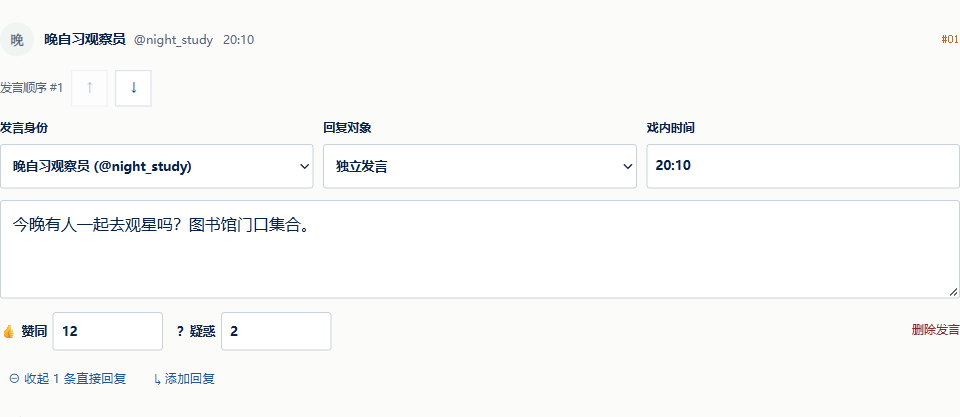
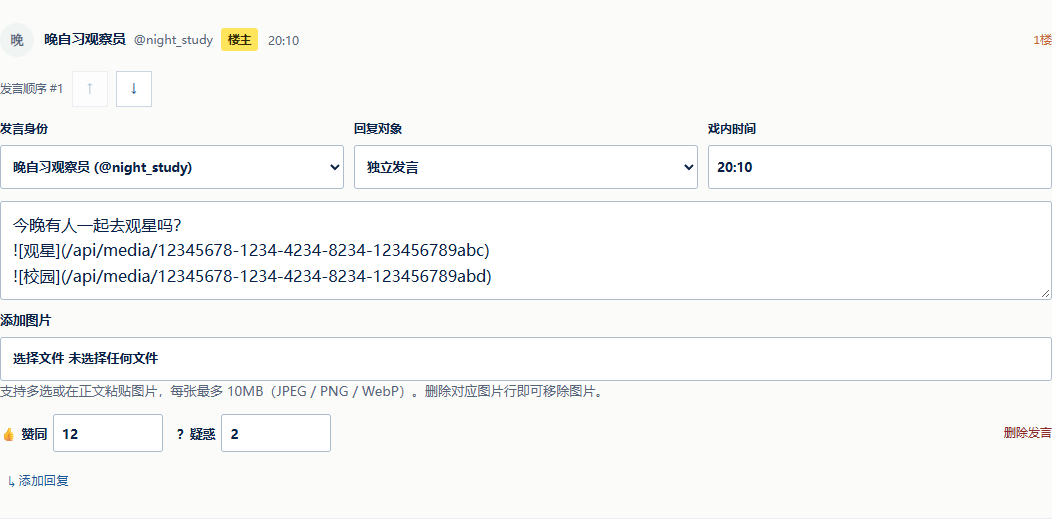
Add forum image replies, direct quotes and topic owner badges

diff --git a/src/features/guide/import-guide.tsx b/src/features/guide/import-guide.tsx
@@ -1,5 +1,5 @@
 import { ScreenshotGuide } from "./screenshot-guide";
-const templates = {"forum": "---\nformat: ktu-forum-v1\ntitle: 图书馆闭馆后的灯\nboard: campus\ntags: 校园日常, 图书馆\n---\n## 楼层 1\n账号: night_reader\n昵称: 夜读者\n回复: 0\n时间: 20:10\n赞同: 12\n疑惑: 2\n---\n有人知道三楼为什么还亮着灯吗？\n\n## 楼层 2\n账号: library_helper\n昵称: 图书馆小助手\n回复: 1\n时间: 20:12\n赞同: 8\n疑惑: 0\n---\n今晚有志愿者整理旧书。\n", "article": "---\nformat: ktu-article-v1\ntitle: 闭馆之后\nsummary: 一次图书馆志愿活动的记录。\ntags: 校园生活, 随笔\n---\n## 夜里的书架\n\n闭馆铃响过之后，我们留下来整理旧书。\n\n> 每一本旧书，都留着曾经的阅读痕迹。\n\n窗外的灯渐渐熄灭，书架上的编号终于连成了完整的一排。\n", "event": "---\nformat: ktu-event-v1\ntitle: 秋季旧书整理行动\nsummary: 图书馆志愿者共同完成旧书编目。\ntime_range: 某学年秋季学期\nstarts_on: 2026-09-20\nends_on: 2026-09-21\n---\n## 事件背景\n\n旧书需要重新整理与编目。\n\n## 后续影响\n\n新增了便于查阅的书目索引。\n\n## 时间线\n\n### 时间节点 1\n时间: 9月20日晚\n标题: 志愿者集合\n---\n大家在图书馆门口领取分组任务。\n\n### 时间节点 2\n时间: 9月21日下午\n标题: 完成编目\n---\n最后一批书目完成核对。\n"};
+const templates = {"forum": "---\nformat: ktu-forum-v1\ntitle: 图书馆闭馆后的灯\nboard: campus\ntags: 校园日常, 图书馆\n---\n## 楼层 1\n账号: night_reader\n昵称: 夜读者\n回复: 0\n时间: 20:10\n赞同: 12\n疑惑: 2\n---\n有人知道三楼为什么还亮着灯吗？\n\n## 楼层 2\n账号: library_helper\n昵称: 图书馆小助手\n回复: 1\n时间: 20:12\n赞同: 8\n疑惑: 0\n---\n今晚有志愿者整理旧书。\n\n照片可在导入后，通过这一楼的“添加图片”上传，或直接在正文粘贴图片。\n", "article": "---\nformat: ktu-article-v1\ntitle: 闭馆之后\nsummary: 一次图书馆志愿活动的记录。\ntags: 校园生活, 随笔\n---\n## 夜里的书架\n\n闭馆铃响过之后，我们留下来整理旧书。\n\n> 每一本旧书，都留着曾经的阅读痕迹。\n\n窗外的灯渐渐熄灭，书架上的编号终于连成了完整的一排。\n", "event": "---\nformat: ktu-event-v1\ntitle: 秋季旧书整理行动\nsummary: 图书馆志愿者共同完成旧书编目。\ntime_range: 某学年秋季学期\nstarts_on: 2026-09-20\nends_on: 2026-09-21\n---\n## 事件背景\n\n旧书需要重新整理与编目。\n\n## 后续影响\n\n新增了便于查阅的书目索引。\n\n## 时间线\n\n### 时间节点 1\n时间: 9月20日晚\n标题: 志愿者集合\n---\n大家在图书馆门口领取分组任务。\n\n### 时间节点 2\n时间: 9月21日下午\n标题: 完成编目\n---\n最后一批书目完成核对。\n"};
 
 export function ImportGuide() {
   return <section id="import" className="guide-section"><p className="guide-kicker">把本地作品带进校园</p><h2>用 Markdown 一键填入内容</h2>
@@ -7,11 +7,11 @@ export function ImportGuide() {
     <ScreenshotGuide name="markdown-import" />
     <p className="guide-note">导入会替换标题、正文及模板内的字段，保留已选关联档案。格式错误不替换编辑器。论坛会立即创建缺少的独立身份，作品内容仍需另行保存；其他作者占用的账号须换一个标识。同一账号的已有昵称不会被修改。已发布事件不支持整体导入，请逐项编辑以保留节点引用。</p>
     <h3>通用规则</h3><p>文件使用 UTF-8 编码，最多 512 KiB。开头和元数据结尾各有一行 ---。字段使用英文冒号，每项一行，值直接填写，不加 YAML 引号或方括号；空值保留字段行。字段不能缺少、重复或增加。标签用逗号分隔。不要把整个文件包在代码围栏中。</p>
-    <h3>交给 AI 的提示词</h3><pre className="guide-import-code">{`请将下面的原稿转换为附带的 KTU Markdown 模板格式。只输出完整 Markdown 文件内容，不要加解释、代码围栏或 YAML 引号。严格保留模板字段名与分节标题；空值保留字段行。不要编造情节或改变角色关系。按下方格式说明检查字数、标签、楼层回复和日期。不支持的排版转成纯文本；图片和档案链接单独列在文件外提醒我手工添加。若缺少必要信息，先问我。
+    <h3>交给 AI 的提示词</h3><pre className="guide-import-code">{`请将下面的原稿转换为附带的 KTU Markdown 模板格式。只输出完整 Markdown 文件内容，不要加解释、代码围栏或 YAML 引号。严格保留模板字段名与分节标题；空值保留字段行。不要编造情节或改变角色关系。按下方格式说明检查字数、标签、楼层回复和日期。不支持的排版转成纯文本；论坛已上传图片保留为独立行 ![说明](/api/media/图片UUID)，不编造图片 UUID；本地图片、其他媒介图片和档案链接单独列在文件外提醒我手工添加。若缺少必要信息，先问我。
 
 【粘贴对应模板与格式说明】
 【粘贴原稿】`}</pre>
-    <h3>论坛格式</h3><p>board 只能为 campus（校园日常）、academic（课程与学术）、clubs（社团活动）、stories（校园传闻）。标题最多 160 字，标签最多 8 个、每个 64 字。楼层从 1 连续编号，最多 100 层。账号为 2–32 位英文字母、数字或下划线，昵称最多 60 字；同一账号的昵称须一致。回复 0 表示独立发言，其他数字必须指向此前楼层。时间最多 100 字，正文每层最多 10,000 字。赞同、疑惑为 0–999999999 的整数，表示作者设定的剧情数值。楼层正文为普通文本；“## 楼层 数字”是保留标题。</p>
+    <h3>论坛格式</h3><p>board 只能为 campus（校园日常）、academic（课程与学术）、clubs（社团活动）、stories（校园传闻）。标题最多 160 字，标签最多 8 个、每个 64 字。楼层从 1 连续编号，最多 100 层。账号为 2–32 位英文字母、数字或下划线，昵称最多 60 字；同一账号的昵称须一致。回复 0 表示独立发言，其他数字必须指向此前楼层。时间最多 100 字，正文每层最多 10,000 字。赞同、疑惑为 0–999999999 的整数，表示作者设定的剧情数值。楼层正文支持普通文本和多图。图片须独占一行，格式为 ![说明](/api/media/图片UUID)，使用自己已上传且可用的图片；不支持外部网址或本地文件路径。本地图片请导入后在对应楼层选择文件上传或粘贴。引用仅展示直接回复楼层，首楼账号的所有发言显示“楼主”；“## 楼层 数字”是保留标题。</p>
     <h3>校刊 / 部刊格式</h3><p>标题最多 160 字，摘要最多 500 字。标签最多 3 个，可用：校园怪谈、个人见闻、校园生活、人物故事、历史、悬疑、科幻、旅行、随笔。正文以空行分块，最多 150 块、每块 20,000 字；仅支持普通段落、单行 # 至 ###### 标题（导入后统一为标题块）、每行以“&gt; ”开头的引用。块之间必须空行。不支持列表、表格、粗体、行内链接、HTML、代码和图片语法；请转成纯文本，导入后在编辑器添加图片和档案引用。</p>
     <h3>事件格式</h3><p>依次包含“## 事件背景”“## 后续影响”“## 时间线”，各一次。标题最多 160 字，概述最多 2,000 字，时间说明最多 160 字，背景与影响各最多 10,000 字。开始与结束日期可空；非空须为真实 YYYY-MM-DD 日期，结束不得早于开始。时间节点从 1 连续编号，最多 100 个；时间标记最多 120 字、标题 160 字、经过 10,000 字。节点区可留空。正文为普通文本，规定的分节标题不可用作正文行。</p>
     {Object.entries(templates).map(([kind, text]) => <details className="guide-details" key={kind}><summary>{{forum:"论坛完整模板",article:"校刊完整模板",event:"事件完整模板"}[kind]}</summary><a href={`/guide/templates/${kind}.md`} download>下载 .md 文件</a><pre className="guide-import-code">{text}</pre></details>)}

diff --git a/src/features/forum/draft-editor.tsx b/src/features/forum/draft-editor.tsx
@@ -4,6 +4,7 @@ import { MarkdownImport } from "../import/markdown-import";
 import { prepareForumImportAccounts } from "../import/actions";
 import Link from "next/link";
 import { GuideLink } from "../guide/guide-link";
+import { FloorBodyEditor } from "./floor-body-editor";
 import { ThreadTree } from "./thread-tree";
 import { startTransition, useActionState, useRef, useState } from "react";
 import type { ForumAccount } from "../../types/database";
@@ -42,7 +43,8 @@ export function DraftEditor({ topicId, title, board, tags, initialFloors, accoun
   const [links, setLinks] = useState(initialLinks);
   const [entityChoice, setEntityChoice] = useState("");
   const [state, action, saving] = useActionState(saveForumDraft.bind(null, topicId), { error: null, saved: false, version });
-  const pending = saving || importing;
+  const [uploading, setUploading] = useState(false);
+  const pending = saving || importing || uploading;
   function update(index: number, patch: Partial<EditableFloor>) {
     setDirty(true);
     setFloors((current) => current.map((floor, position) => position === index ? { ...floor, ...patch } : floor));
@@ -77,6 +79,7 @@ export function DraftEditor({ topicId, title, board, tags, initialFloors, accoun
   }
   function submit(event: React.FormEvent<HTMLFormElement>) {
     event.preventDefault();
+    if (pending) return;
     const submitter = (event.nativeEvent as SubmitEvent).submitter;
     const formData = submitter ? new FormData(event.currentTarget, submitter) : new FormData(event.currentTarget);
     setDirty(false);
@@ -116,7 +119,7 @@ export function DraftEditor({ topicId, title, board, tags, initialFloors, accoun
       <label>标签<input name="tags" value={draftTags} onChange={(event) => setDraftTags(event.target.value)} placeholder="用逗号分隔，最多 8 个" /></label>
     </div>
     <details className="forum-entity-picker"><summary>关联校园档案（{links.length}）</summary><p className="forum-form-hint">将主题与涉及的人物、学院、地点或事件关联。关联不会改写档案内容。</p><label>选择档案<select ref={entitySelect} value={entityChoice} disabled={pending || links.length >= 30} onChange={(event) => setEntityChoice(event.target.value)}><option value="">选择一个校园档案</option>{entities.filter((entity) => !links.some((link) => link.entity_id === entity.id && link.entity_type === entity.type)).map((entity) => <option key={`${entity.type}:${entity.id}`} value={`${entity.type}:${entity.id}`}>{entity.label} · {entity.type === "student" ? "人物" : entity.type === "college" ? "学院" : entity.type === "place" ? "地点" : "事件"}</option>)}</select></label><button className="button button-secondary" type="button" disabled={pending || !entityChoice || links.length >= 30} onClick={() => { const entity = entities.find((item) => `${item.type}:${item.id}` === entityChoice); if (entity) { setLinks((current) => [...current, {entity_type:entity.type,entity_id:entity.id}]); setEntityChoice(""); } }}>添加关联</button><ul>{links.map((link) => { const entity = entities.find((item) => item.id === link.entity_id && item.type === link.entity_type); return <li key={`${link.entity_type}:${link.entity_id}`}><span>{entity?.label ?? "档案已不可用"}</span> <button className="button button-secondary" type="button" disabled={pending} onClick={() => { setLinks((current) => current.filter((item) => item !== link)); requestAnimationFrame(() => entitySelect.current?.focus()); }} aria-label={`移除${entity?.label ?? "不可用档案"}关联`}>移除</button></li>; })}</ul></details>
-    <div className="forum-editor-heading"><div><h2>{draftTitle || "未命名主题"}</h2><p className="forum-form-hint">{floors.length} / 100 条发言 · 回复会显示在对应分支下</p></div><button className="button button-secondary" type="button" aria-pressed={preview} onClick={() => setPreview(!preview)}>{preview ? "继续编辑" : "阅读预览"}</button></div>
+    <div className="forum-editor-heading"><div><h2>{draftTitle || "未命名主题"}</h2><p className="forum-form-hint">{floors.length} / 100 条发言 · 按楼层顺序显示 · 回复引用直接目标</p></div><button className="button button-secondary" type="button" aria-pressed={preview} onClick={() => setPreview(!preview)}>{preview ? "继续编辑" : "阅读预览"}</button></div>
     <p className="forum-form-hint">👍 赞同 · ？疑惑：以下数量由你编写，用于剧情展示。</p>
     {floors.length === 0 && <p className="forum-empty-note">尚无发言。添加一条发言，开始编排这场讨论。</p>}
     <ThreadTree prefix="draft" nodes={floors.map((floor, index) => {
@@ -132,7 +135,7 @@ export function DraftEditor({ topicId, title, board, tags, initialFloors, accoun
           <label>回复对象<select value={floor.replyToId ?? ""} onChange={event => update(index, { replyToId: event.target.value || null })}><option value="">独立发言</option>{floors.slice(0, index).map((target, i) => <option key={target.id} value={target.id}>#{i + 1} · {target.body.slice(0, 24) || "空白发言"}</option>)}</select></label>
           <label>戏内时间<input value={floor.in_world_time} maxLength={100} onChange={event => update(index, { in_world_time: event.target.value })} placeholder="可选" /></label>
         </div>
-        <label htmlFor={'body-' + floor.id} className="sr-only">第 {index + 1} 层正文</label><textarea id={'body-' + floor.id} value={floor.body} required rows={3} maxLength={10000} onChange={event => update(index, { body: event.target.value })} placeholder="以这个身份写下发言……" />
+        <FloorBodyEditor id={"body-" + floor.id} body={floor.body} disabled={saving || importing || uploading} onBusy={setUploading} onChange={body => update(index, { body })} />
         <div className="thread-edit-reactions"><label>👍 赞同<input type="number" min={0} max={999999999} step={1} required value={floor.like_count} onChange={event => update(index, { like_count: event.target.valueAsNumber || 0 })} /></label><label>？疑惑<input type="number" min={0} max={999999999} step={1} required value={floor.question_count} onChange={event => update(index, { question_count: event.target.valueAsNumber || 0 })} /></label><button className="thread-delete" type="button" onClick={() => remove(index)} aria-label={`删除第 ${index + 1} 层`}>删除发言</button></div>
       </div>;
     }} />

diff --git a/src/features/guide/creator-guide.tsx b/src/features/guide/creator-guide.tsx
@@ -17,9 +17,9 @@ export function CreatorGuide() {
       <section id="identity" className="guide-section"><p className="guide-kicker">先认清三个名字</p><h2>你是作者，角色通过论坛身份发言</h2><dl className="guide-definitions"><div><dt>创作者 / Creator</dt><dd>登录网站的你，负责管理自己的作品与论坛身份。</dd></div><div><dt>人物档案 / Student</dt><dd>故事中人物的设定资料，例如姓名、经历、所属学院。</dd></div><div><dt>论坛身份 / Forum Account</dt><dd>出现在帖子里的昵称和 @账号。一个作者可以创建多个身份，同一个人物也可以有不同网名。</dd></div></dl>
         <h3>建立一个发言身份</h3><p>进入<Link href="/create/forum/account">“建立论坛身份”</Link>，按图填写：</p><ScreenshotGuide name="identity" /><p className="guide-note">论坛中的发言身份是你自己创建的账号。关联校园档案只建立联系，不会修改该档案的设定。</p>
       </section>
-      <section id="forum" className="guide-section"><p className="guide-kicker">第一场校园讨论</p><h2>把一个帖子写成一段对话</h2><p>打开<Link href="/create/forum">“创作论坛主题”</Link>，先建立草稿，再编排发言。</p><ScreenshotGuide name="forum-start" /><p>进入楼层编辑页后，点击“＋ 添加独立发言”，就会出现下面的编辑区域。</p><ScreenshotGuide name="forum-floor" /><ScreenshotGuide name="forum-publish" />
+      <section id="forum" className="guide-section"><p className="guide-kicker">第一场校园讨论</p><h2>把一个帖子写成一段对话</h2><p>打开<Link href="/create/forum">“创作论坛主题”</Link>，先建立草稿，再编排发言。</p><ScreenshotGuide name="forum-start" /><p>进入楼层编辑页后，点击“＋ 添加独立发言”，就会出现下面的编辑区域。每层可多选 JPEG、PNG 或 WebP 图片，也可以直接把图片粘贴到正文；上传完成后会插入图片行，删除该行即可移除。</p><ScreenshotGuide name="forum-floor" /><ScreenshotGuide name="forum-publish" />
         <details className="guide-details guide-exercise"><summary>动手试一下：把第三层换成回复另一个人</summary><ForumPractice /></details>
-        <h3>这几个操作容易混淆</h3><ul><li><strong>编号和缩进不同：</strong>编号表示发言顺序；缩进表示回复关系。回复会跟在所属分支下，因此阅读顺序不一定按编号递增。</li><li><strong>独立发言和回复：</strong>独立发言在最外层；回复必须指向它之前的楼层。新增回复后，记得选择应该说这句话的身份。</li><li><strong>👍 和 ？是剧情数值：</strong>它们由你设置，读者不会通过点击改变这些楼层数据。</li><li><strong>移动和删除：</strong>上下箭头调整顺序。如果回复被移到目标之前，会改成独立发言并提示；删除父楼层后，它的直接回复也会变为独立发言。操作后请再看一次预览。</li><li><strong>标签与关联：</strong>标签用逗号分隔；展开“关联校园档案”可添加涉及的人物、学院、地点或事件。两者都不会自动改写档案。</li></ul><p className="guide-note"><strong>发布前务必检查：</strong>论坛主题发布后，作品与楼层会冻结，不能直接改写。草稿可继续编辑；一篇主题最多 100 条发言。</p>
+        <h3>这几个操作容易混淆</h3><ul><li><strong>编号和引用：</strong>编号表示发言顺序，阅读按编号递增；灰色引用卡片展示直接回复的目标。</li><li><strong>独立发言和回复：</strong>独立发言没有引用卡片；回复必须指向它之前的楼层。新增回复后，记得选择应该说这句话的身份。</li><li><strong>👍 和 ？是剧情数值：</strong>它们由你设置，读者不会通过点击改变这些楼层数据。</li><li><strong>移动和删除：</strong>上下箭头调整顺序。如果回复被移到目标之前，会改成独立发言并提示；删除父楼层后，它的直接回复也会变为独立发言。操作后请再看一次预览。</li><li><strong>图片与引用：</strong>每层支持多张图片，可选择文件或粘贴图片；点击阅读区的缩略图可看完整图片。回复只显示直接目标楼层的引用卡片，不会继续嵌套；首楼身份的发言会显示黄色“楼主”标识。</li><li><strong>标签与关联：</strong>标签用逗号分隔；展开“关联校园档案”可添加涉及的人物、学院、地点或事件。两者都不会自动改写档案。</li></ul><p className="guide-note"><strong>发布前务必检查：</strong>论坛主题发布后，作品与楼层会冻结，不能直接改写。草稿可继续编辑；一篇主题最多 100 条发言。</p>
       </section>
       <section id="wiki" className="guide-section"><p className="guide-kicker">留下可追溯的设定</p><h2>校园档案：摘要讲概况，正文写细节</h2><p>打开<Link href="/create/wiki">“建立校园档案”</Link>，选择人物、学院或地点，填写名称、地址和摘要。档案地址例如 <code>star-club</code>，使用 2–64 位小写字母、数字或连字符，创建后不可修改。摘要写概况，下面的正文写详细内容。</p><ScreenshotGuide name="wiki-markdown" /><p className="guide-note">新档案点击“建立档案”后直接公开，并记录首个版本，没有论坛那样的草稿发布步骤。</p>
         <details className="guide-details guide-exercise"><summary>动手试一下：插入表格、粗体和列表</summary><MarkdownPractice /></details>

diff --git a/src/features/forum/thread-tree.tsx b/src/features/forum/thread-tree.tsx
@@ -1,58 +1,30 @@
 "use client";
-
 import Link from "next/link";
-import { useState, type ReactNode } from "react";
+import type { ReactNode } from "react";
 import { Avatar } from "../../components/ui/avatar";
-
+import { ForumBody } from "./body-view";
 export type ThreadNode = {
   id: string; parentId: string | null; floor: number; body: string; time: string;
   name: string; handle: string; avatarId?: string | null; likes: number; questions: number;
 };
-
 export function ThreadTree({ nodes, renderEditor, onReply, prefix = "floor" }: {
   nodes: ThreadNode[]; renderEditor?: (node: ThreadNode) => ReactNode;
   onReply?: (id: string) => void; prefix?: string;
 }) {
-  const [collapsed, setCollapsed] = useState<Set<string>>(new Set());
-  const children = (id: string | null) => nodes.filter(node => node.parentId === id);
-  function reveal(id: string) {
-    setCollapsed(current => {
-      const next = new Set(current);
-      let node = nodes.find(item => item.id === id);
-      const seen = new Set<string>();
-      while (node && !seen.has(node.id)) { seen.add(node.id); next.delete(node.id); node = nodes.find(item => item.id === node?.parentId); }
-      return next;
-    });
-    requestAnimationFrame(() => document.getElementById(`${prefix}-${id}`)?.focus());
-  }
-  function branch(parentId: string | null, depth: number): ReactNode {
-    return <ol className={`thread-branch${depth > 0 ? " thread-branch-nested" : ""}`}>
-      {children(parentId).map(node => {
-        const replies = children(node.id);
-        const closed = collapsed.has(node.id);
-        const parent = nodes.find(item => item.id === node.parentId);
-        return <li key={node.id} className="thread-node" id={`${prefix}-${node.id}`} tabIndex={-1}>
-          <article className="thread-message">
-            <header className="thread-identity">
-              <Avatar assetId={node.avatarId} name={node.name} />
-              <div>{renderEditor ? <strong>{node.name}</strong> : <Link href={`/forum/accounts/${node.handle}`}>{node.name}</Link>}<span>@{node.handle || "未选择身份"}</span></div>
-              {node.time && <time>{node.time}</time>}<span className="thread-floor">#{String(node.floor).padStart(2, "0")}</span>
-            </header>
-            {parent && <a className="thread-parent" href={`#${prefix}-${parent.id}`} onClick={() => reveal(parent.id)}>回复 #{String(parent.floor).padStart(2, "0")} · {parent.name}</a>}
-            {renderEditor ? renderEditor(node) : <><p className="thread-body">{node.body}</p><div className="thread-reactions" aria-label="剧情中的反应数量"><span title="赞同这条内容">👍 <b>{node.likes.toLocaleString("zh-CN")}</b></span><span title="感到抽象或不理解"><b className="question-icon">?</b> <b>{node.questions.toLocaleString("zh-CN")}</b></span></div></>}
-            <div className="thread-controls">
-              {replies.length > 0 && <button type="button" aria-expanded={!closed} aria-controls={`${prefix}-replies-${node.id}`} onClick={() => setCollapsed(current => { const next = new Set(current); if (closed) next.delete(node.id); else next.add(node.id); return next; })}>{closed ? "⊕" : "⊖"} {closed ? "展开" : "收起"} {replies.length} 条直接回复</button>}
-              {onReply && <button type="button" onClick={() => { reveal(node.id); onReply(node.id); }}>↳ 添加回复</button>}
-            </div>
-          </article>
-          {replies.length > 0 && <div id={`${prefix}-replies-${node.id}`} hidden={closed} className={depth >= 3 ? "thread-depth-limit" : undefined}>{branch(node.id, depth + 1)}</div>}
-        </li>;
-      })}
-    </ol>;
-  }
-  return <div className="thread-tree" onInvalidCapture={event => {
-    const input = event.target as HTMLInputElement;
-    setCollapsed(new Set());
-    requestAnimationFrame(() => input.focus());
-  }}>{branch(null, 0)}</div>;
+  const ordered = [...nodes].sort((a, b) => a.floor - b.floor);
+  const owner = ordered[0]?.handle;
+  return <div className="thread-tree"><ol className="thread-branch">{ordered.map(node => {
+    const parent = ordered.find(item => item.id === node.parentId && item.floor < node.floor);
+    return <li key={node.id} className="thread-node" id={prefix + "-" + node.id} tabIndex={-1}>
+      <article className="thread-message">
+        <header className="thread-identity"><Avatar assetId={node.avatarId} name={node.name} />
+          <div>{renderEditor ? <strong>{node.name}</strong> : <Link href={"/forum/accounts/" + node.handle}>{node.name}</Link>}<span>@{node.handle || "未选择身份"}</span>{owner && node.handle === owner && <b className="thread-owner">楼主</b>}</div>
+          {node.time && <time>{node.time}</time>}<span className="thread-floor">{node.floor}楼</span>
+        </header>
+        {parent && <blockquote className="thread-quote"><a className="thread-parent" href={"#" + prefix + "-" + parent.id} onClick={() => document.getElementById(prefix + "-" + parent.id)?.focus()}>{parent.floor}楼 · {parent.name}</a><ForumBody body={parent.body} quoted /></blockquote>}
+        {renderEditor ? renderEditor(node) : <><ForumBody body={node.body} /><div className="thread-reactions" aria-label="剧情中的反应数量"><span title="赞同这条内容">👍 <b>{node.likes.toLocaleString("zh-CN")}</b></span><span title="感到抽象或不理解"><b className="question-icon">?</b> <b>{node.questions.toLocaleString("zh-CN")}</b></span></div></>}
+        {onReply && <div className="thread-controls"><button type="button" onClick={() => onReply(node.id)}>↳ 添加回复</button></div>}
+      </article>
+    </li>;
+  })}</ol></div>;
 }

diff --git a/src/features/forum/forum.css b/src/features/forum/forum.css
@@ -92,3 +92,10 @@
 .forum-editor-lock{border:0;margin:0;padding:0;display:grid;gap:20px;min-width:0}.forum-editor-heading{align-items:center;gap:12px;padding-bottom:14px}.forum-editor-heading h2{font-family:var(--font-serif,Georgia,serif);font-size:1.5rem;margin:0}.forum-editor-heading p{margin-bottom:0}.thread-inline-editor{display:grid;gap:12px;margin-top:14px}.thread-inline-editor .forum-floor-fields{grid-template-columns:repeat(3,minmax(0,1fr));gap:10px}.thread-inline-editor .forum-floor-fields label{font-size:.75rem}.thread-inline-editor .forum-floor-fields :is(input,select){font-size:.8rem;padding:8px}.thread-edit-reactions{display:flex;align-items:end;gap:14px;flex-wrap:wrap}.thread-edit-reactions label{display:flex;align-items:center;gap:6px;font-size:.8rem}.thread-edit-reactions input{max-width:110px;min-height:38px;padding:6px 8px}.thread-delete{margin-left:auto;border:0;background:none;color:#8b2929;min-height:40px;cursor:pointer;font:inherit;font-size:.75rem}.forum-editor>.forum-editor-lock>.forum-form-actions{position:sticky;bottom:0;background:rgba(255,255,255,.98);padding:16px;border:1px solid #cbd6e2;border-radius:8px;z-index:2}.forum-entity-picker summary{cursor:pointer;color:#1d5799;font-weight:650;min-height:40px}.thread-tree :is(button,a,textarea,input,select):focus-visible,.thread-node:focus-visible{outline:3px solid #1d5799;outline-offset:3px}
 @media(max-width:700px){.thread-branch-nested{margin-left:8px;padding-left:12px}.thread-branch-nested>.thread-node:before{left:-13px;width:9px}.thread-inline-editor .forum-floor-fields{grid-template-columns:1fr}.thread-identity>div{gap:3px 8px}.thread-edit-reactions{gap:8px}.thread-edit-reactions input{max-width:85px}.thread-message{padding:16px 0}.forum-editor-heading{flex-wrap:wrap}.forum-editor>.forum-editor-lock>.forum-form-actions{padding:12px 8px}.thread-controls{gap:4px}.thread-body{font-size:.94rem}}
 .thread-order{display:flex;gap:8px;align-items:center;font-size:.72rem;color:#56657a}.thread-order button{border:1px solid #cbd6e2;background:#fff;color:#1d5799;min-width:36px;min-height:36px;cursor:pointer}.thread-order button:disabled{opacity:.35;cursor:default}
+
+/* Flat BBS floors with one direct quote and accessible image preview. */
+.thread-owner{background:#ffe45c;color:#332b00;border-radius:3px;padding:3px 7px;font-size:.72rem;white-space:nowrap}
+.thread-quote{margin:12px 0;padding:12px 16px;background:var(--thread-soft,#f2f4f6);border-radius:8px;border:0;overflow-wrap:anywhere}
+.thread-quote .thread-parent{margin:0;min-height:24px}.thread-quote .thread-body{font-size:.86rem;line-height:1.6;margin:6px 0}
+.thread-images{display:flex;flex-wrap:wrap;gap:10px;margin:12px 0}.thread-images button{padding:0;border:1px solid #cbd6e2;background:#f2f4f6;border-radius:6px;overflow:hidden;cursor:zoom-in;max-width:100%;width:180px;height:150px}.thread-images img{display:block;width:100%;height:100%;object-fit:cover}.thread-images-quoted button{width:72px;height:72px}.thread-image-dialog{box-sizing:border-box;max-width:calc(100vw - 24px);max-height:calc(100dvh - 24px);padding:16px;border:1px solid #cbd6e2;border-radius:8px;color:#0a2147;overflow:auto}.thread-image-dialog::backdrop{background:rgba(10,33,71,.75)}.thread-image-dialog>img{display:block;max-width:100%;max-height:75dvh;object-fit:contain;margin:12px auto}.thread-image-dialog>button{display:block;margin-left:auto;padding:10px 16px;min-height:44px;background:#fff;border:1px solid #adbdce;border-radius:4px;cursor:pointer}.floor-body-editor{min-width:0}.floor-body-editor>label:not(.sr-only){margin-top:10px;font-size:.8rem}.thread-tree dialog :is(button,a):focus-visible{outline:3px solid #1d5799;outline-offset:3px}
+@media(max-width:700px){.thread-quote{padding:10px 12px}.thread-images button{width:calc(50% - 5px);height:130px}.thread-images-quoted button{width:64px;height:64px}}

diff --git a/src/features/guide/screenshot-guide.tsx b/src/features/guide/screenshot-guide.tsx
@@ -19,12 +19,13 @@ const captures: Record<string, Capture> = {
     { x: 56.47, y: 46.04, w: 22.92, h: 32.67, label: "版面", text: "选择这篇讨论所属的校园版面。" },
     { x: 81.47, y: 40.1, w: 18.53, h: 38.61, label: "建立草稿并编排楼层", text: "点击后进入楼层编辑页。还没有发言身份时，页面会先引导你建立身份。" },
   ] },
-  "forum-floor": { title: "一条发言要填什么？", width: 960, height: 417, marks: [
-    { x: 0, y: 34.61, w: 32.64, h: 10.57, label: "发言身份", text: "选择这句话由哪个账号说。一个帖子可以切换多个自己管理的身份。" },
-    { x: 33.68, y: 34.61, w: 32.64, h: 10.57, label: "回复对象", text: "开帖时选“独立发言”；接别人的话时选对应楼层。只能回复它之前的楼层。" },
-    { x: 0, y: 48.06, w: 100, h: 23.58, label: "正文", text: "在这里写角色说的话。旁边的“戏内时间”可填写故事里的时间，例如 20:10。" },
-    { x: 0, y: 74.53, w: 35, h: 9.61, label: "👍 赞同 / ？疑惑", text: "填写剧情里的整数数量，默认 0。数量由作者编写，读者不会通过点击改变它。" },
-    { x: 15.23, y: 86.06, w: 7.98, h: 9.61, label: "↳ 添加回复", text: "点击这条发言下方的按钮，在它的分支里续写。要另起一条，则用编辑页底部的“＋ 添加独立发言”。" },
+  "forum-floor": { title: "一条发言要填什么？", width: 1052, height: 518, marks: [
+    { x: 0, y: 27.82, w: 32.70, h: 8.50, label: "发言身份", text: "选择这句话由哪个账号说。首楼身份在本主题的发言显示黄色楼主标识。" },
+    { x: 33.65, y: 27.82, w: 32.70, h: 8.50, label: "回复对象", text: "选择此前楼层；引用卡片只展示直接目标的正文和图片。" },
+    { x: 0, y: 38.64, w: 100, h: 19.08, label: "正文", text: "填写角色发言，也可以直接粘贴图片。删除对应图片行即可移除图片。" },
+    { x: 0, y: 64.90, w: 100, h: 8.50, label: "添加图片", text: "可一次选择多张 JPEG、PNG 或 WebP 图片，每张最多 10MB。上传完成后检查阅读预览。" },
+    { x: 0, y: 79.52, w: 100, h: 7.73, label: "👍 赞同 / ？疑惑", text: "填写作者设定的剧情数量；读者不会点击改变这些数值。" },
+    { x: 0, y: 88.80, w: 7.29, h: 7.73, label: "↳ 添加回复", text: "在末尾添加回复这条发言的新楼层；独立发言使用编辑页底部按钮。" },
   ] },
   "forum-publish": { title: "保存与发布不是同一个操作", width: 960, height: 86, marks: [
     { x: 74.84, y: 19.53, w: 11.09, h: 60.94, label: "保存草稿", text: "先保存再离开；以后从创作中心或“我的草稿”继续写。当前页面不会自动保存。" },

diff --git a/src/features/forum/floor-body-editor.tsx b/src/features/forum/floor-body-editor.tsx
@@ -1,0 +1,31 @@
+"use client";
+import { useRef, useState, useEffect } from "react";
+import { uploadImage } from "../media/image-upload";
+import { forumImageMarkdown } from "./body";
+export function FloorBodyEditor({ id, body, disabled, onChange, onBusy }: { id: string; body: string; disabled: boolean; onChange: (body: string) => void; onBusy: (busy: boolean) => void }) {
+  const ref = useRef<HTMLTextAreaElement>(null);
+  const latest = useRef(body);
+  useEffect(() => { latest.current = body; }, [body]);
+  const uploading = useRef(false);
+  const [busy, setBusy] = useState(false);
+  const [error, setError] = useState("");
+  async function upload(files: File[]) {
+    if (disabled || uploading.current || !files.length) return;
+    uploading.current = true; setBusy(true); onBusy(true); setError("");
+    try {
+      for (const file of files) {
+        const asset = await uploadImage(file);
+        const insertion = "\n" + forumImageMarkdown(asset.id, file.name) + "\n";
+        if (latest.current.length + insertion.length > 10000) throw new Error("正文超过 10,000 字，请缩短后重试。");
+        latest.current += insertion; onChange(latest.current);
+      }
+    } catch (err) { setError(err instanceof Error ? err.message : "图片上传失败，请重试。"); }
+    finally { uploading.current = false; setBusy(false); onBusy(false); requestAnimationFrame(() => ref.current?.focus()); }
+  }
+  return <div className="floor-body-editor">
+    <label htmlFor={id} className="sr-only">楼层正文</label><textarea ref={ref} id={id} value={body} disabled={disabled || busy} required rows={3} maxLength={10000} onChange={event => onChange(event.target.value)} onPaste={event => { const images = Array.from(event.clipboardData.items).filter(item => item.kind === "file" && item.type.startsWith("image/")).map(item => item.getAsFile()).filter((file): file is File => file !== null); if (images.length) { event.preventDefault(); void upload(images); } }} placeholder="写下发言，也可以粘贴图片……" />
+    <label>添加图片<input type="file" multiple accept="image/jpeg,image/png,image/webp" disabled={disabled || busy} onChange={event => { const files = Array.from(event.target.files ?? []); event.target.value = ""; void upload(files); }} /></label>
+    <p className="forum-form-hint" role="status">{busy ? "正在上传并校验图片…" : "支持多选或在正文粘贴图片，每张最多 10MB（JPEG / PNG / WebP）。删除对应图片行即可移除图片。"}</p>
+    {error && <p className="forum-error" role="alert">{error} 已成功插入的图片保留。</p>}
+  </div>;
+}

diff --git a/src/features/media/image-upload.tsx b/src/features/media/image-upload.tsx
@@ -6,12 +6,17 @@ export function ImageUpload({onUploaded,disabled=false}:{onUploaded:(asset:{id:s
     setError("");if(!['image/jpeg','image/png','image/webp'].includes(file.type)||file.size>10485760){setError("请选择不超过10MB的JPEG、PNG或WebP图片。");return;}
     setBusy(true);
     try {
+      onUploaded(await uploadImage(file));
+    }catch(err){setError(err instanceof Error?err.message:'图片上传失败。');}finally{setBusy(false);}
+  }
+  return <div className="image-upload"><label htmlFor={id}>{busy?'正在上传并校验…':'选择图片（JPEG / PNG / WebP，最多10MB）'}</label><input id={id} type="file" accept="image/jpeg,image/png,image/webp" disabled={disabled||busy} onChange={event=>{const file=event.target.files?.[0];if(file)void upload(file);event.target.value='';}}/>{error&&<p role="alert">{error}</p>}</div>;
+}
+
+export async function uploadImage(file: File): Promise<{id: string; url: string}> {
+  if (!["image/jpeg","image/png","image/webp"].includes(file.type) || file.size > 10485760 || file.size === 0) throw new Error("请选择不超过 10MB 的 JPEG、PNG 或 WebP 图片。");
       const start=await fetch('/api/media/upload',{method:'POST',headers:{'Content-Type':'application/json'},body:JSON.stringify({filename:file.name,mimeType:file.type,byteSize:file.size})});
       const reservation=await start.json();if(!start.ok)throw new Error(reservation.error);
       const upload=await fetch(reservation.uploadUrl,{method:'PUT',headers:reservation.headers,body:file});if(!upload.ok)throw new Error("上传中断，请重新选择图片重试。");
       const complete=await fetch('/api/media/complete',{method:'POST',headers:{'Content-Type':'application/json'},body:JSON.stringify({id:reservation.id})});
-      const result=await complete.json();if(!complete.ok)throw new Error(result.error);onUploaded(result);
-    }catch(err){setError(err instanceof Error?err.message:'图片上传失败。');}finally{setBusy(false);}
-  }
-  return <div className="image-upload"><label htmlFor={id}>{busy?'正在上传并校验…':'选择图片（JPEG / PNG / WebP，最多10MB）'}</label><input id={id} type="file" accept="image/jpeg,image/png,image/webp" disabled={disabled||busy} onChange={event=>{const file=event.target.files?.[0];if(file)void upload(file);event.target.value='';}}/>{error&&<p role="alert">{error}</p>}</div>;
+      const result=await complete.json();if(!complete.ok)throw new Error(result.error);return result;
 }

diff --git a/app/(public)/forum/[id]/page.tsx b/app/(public)/forum/[id]/page.tsx
@@ -21,7 +21,7 @@ export default async function ForumTopicPage({ params, searchParams }: { params:
     <nav className="forum-crumb"><Link href="/forum">校园论坛</Link><span>/</span><Link href={`/forum?board=${result.topic.board}`}>{boardLabel(result.topic.board)}</Link><span>/</span>主题</nav>
     {message && <p role="status" className="forum-success">{message}</p>}
     <header className="forum-detail-head"><p className="archive-label">{boardLabel(result.topic.board)} / {result.floors.length} FLOORS</p><h1>{result.topic.title}</h1><div className="forum-tags">{result.topic.tags.map((name) => <Link key={name} href={`/forum?tag=${encodeURIComponent(name)}`}>#{name}</Link>)}</div><time dateTime={result.topic.published_at ?? ""}>{result.topic.published_at ? `发布于 ${new Date(result.topic.published_at).toLocaleString("zh-CN")}` : ""}</time></header>
-    <p className="thread-reading-note">按回复关系阅读 · 楼层编号保留发言顺序 · 👍 / ？为剧情中的反应</p>
+    <p className="thread-reading-note">按楼层顺序阅读 · 引用仅显示直接回复的楼层 · 👍 / ？为剧情中的反应</p>
     <ThreadTree nodes={result.floors.map(floor => ({ id: floor.id, parentId: floor.reply_to_message_id, floor: floor.floor_no, body: floor.body, time: floor.in_world_time ?? "", name: floor.account.display_name, handle: floor.account.handle, avatarId: floor.account.avatar_asset_id, likes: floor.like_count, questions: floor.question_count }))} />
     <div className="forum-end"><span>END OF THREAD</span><Link href="/forum">返回论坛</Link></div>
     {linkedEntities.length>0&&<section className="forum-preview"><h2>相关校园档案</h2><div className="forum-tags">{linkedEntities.map(entity=><Link key={`${entity.type}:${entity.id}`} href={entity.href}>{entity.label} ↗</Link>)}</div></section>}

diff --git a/src/features/import/markdown-import.tsx b/src/features/import/markdown-import.tsx
@@ -35,7 +35,7 @@ export function MarkdownImport<K extends ImportKind>({ kind, disabled, onImport 
   return <details className="markdown-import"><summary>从 Markdown 导入</summary><fieldset disabled={disabled || busy}>
     <legend className="sr-only">Markdown 导入</legend>
     <p>选择 UTF-8 的 .md 文件（最多 512 KiB），或粘贴全文。<a href={`/guide/templates/${kind}.md`} download>下载模板</a> · <a href="/guide#import" target="_blank" rel="noreferrer">格式说明与 AI 提示词 ↗</a></p>
-    {kind === "forum" && <p>按 @账号复用你已有的身份；缺少的身份将自动创建，不关联人物。其他作者占用的账号不能导入。已有昵称保持不变。</p>}
+    {kind === "forum" && <p>按 @账号复用你已有的身份；缺少的身份将自动创建，不关联人物。其他作者占用的账号不能导入。已有昵称保持不变。楼层可用独立行 ![说明](/api/media/图片UUID) 插入多图；本地图片请导入后在对应楼层多选上传或粘贴。</p>}
     <label>选择 Markdown 文件<input type="file" accept=".md,.markdown,text/markdown,text/plain" onChange={e => { const file = e.target.files?.[0]; e.target.value = ""; void read(file); }} /></label>
     <label>或粘贴 Markdown<textarea rows={8} value={raw} onChange={e => { readVersion.current++; setRaw(e.target.value); setConfirmed(false); setError(""); setNotice(""); }} /></label>
     <label className="markdown-import-confirm"><input type="checkbox" checked={confirmed} onChange={e => setConfirmed(e.target.checked)} /><span>我确认替换当前标题与正文等内容，保留已选关联档案{kind === "forum" ? "，并创建缺少的论坛身份" : ""}。</span></label>

diff --git a/src/features/forum/body-view.tsx b/src/features/forum/body-view.tsx
@@ -1,0 +1,18 @@
+"use client";
+/* eslint-disable @next/next/no-img-element -- Authenticated media uses expiring redirects. */
+import { useRef, useState } from "react";
+import { parseForumBody } from "./body";
+export function ForumBody({ body, quoted = false }: { body: string; quoted?: boolean }) {
+  const { text, images } = parseForumBody(body);
+  const dialog = useRef<HTMLDialogElement>(null);
+  const [active, setActive] = useState<{url: string; alt: string} | null>(null);
+  const trigger = useRef<HTMLButtonElement | null>(null);
+  return <div className={quoted ? "thread-quote-body" : "thread-body-content"}>
+    {text && <p className="thread-body">{text}</p>}
+    {images.length > 0 && <div className={quoted ? "thread-images thread-images-quoted" : "thread-images"}>{images.map((image, index) => <button key={index} type="button" aria-label={"查看完整图片：" + (image.alt || "图片 " + (index + 1))} onClick={event => { trigger.current = event.currentTarget; setActive(image); dialog.current?.showModal(); }}><img src={image.url} alt={image.alt || "图片 " + (index + 1)} loading="lazy" /></button>)}</div>}
+    <dialog ref={dialog} className="thread-image-dialog" onClose={() => trigger.current?.focus()}>
+      <button type="button" onClick={() => dialog.current?.close()}>关闭图片</button>
+      {active && <><img src={active.url} alt={active.alt || "完整图片"} /><a href={active.url} target="_blank" rel="noreferrer">打开原图 ↗</a></>}
+    </dialog>
+  </div>;
+}

diff --git a/src/features/forum/schemas.ts b/src/features/forum/schemas.ts
@@ -1,4 +1,5 @@
 import { z } from "zod";
+import { validForumImages } from "./body";
 
 export const forumBoards = [
   { id: "campus", label: "校园日常" },
@@ -20,7 +21,7 @@ export const forumMessageSchema = z.object({
   like_count: z.number().int().min(0).max(999999999).default(0),
   question_count: z.number().int().min(0).max(999999999).default(0),
   forum_account_id: z.string().uuid("请选择发言账号。"),
-  body: z.string().trim().min(1, "楼层正文不能为空。").max(10000, "单层不能超过 10000 字。"),
+  body: z.string().trim().min(1, "楼层正文不能为空。").max(10000, "单层不能超过 10000 字。").refine(validForumImages, "图片须独占一行，使用 ![说明](/api/media/图片UUID)。本地图片请在编辑器上传。"),
   in_world_time: z.string().trim().max(100, "戏内时间不能超过 100 字。"),
   reply_to_floor_no: z.number().int().positive().nullable(),
 });
